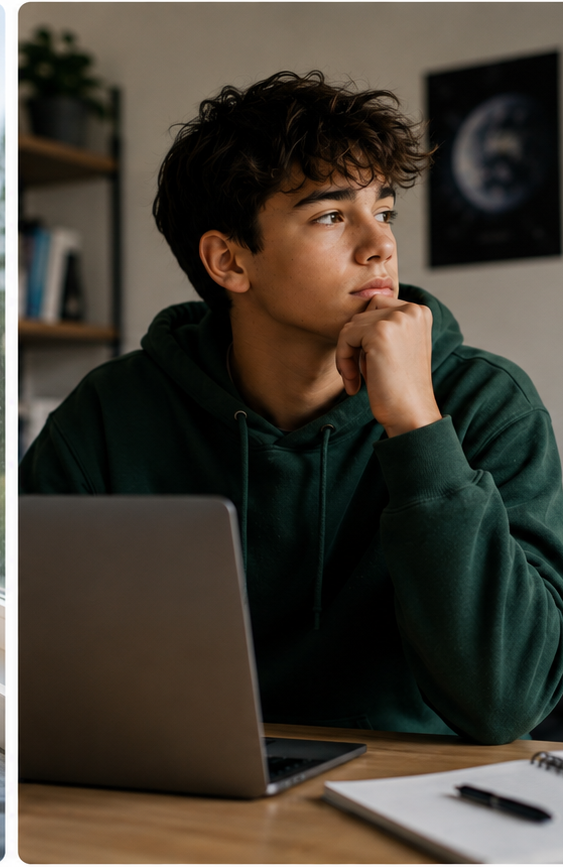
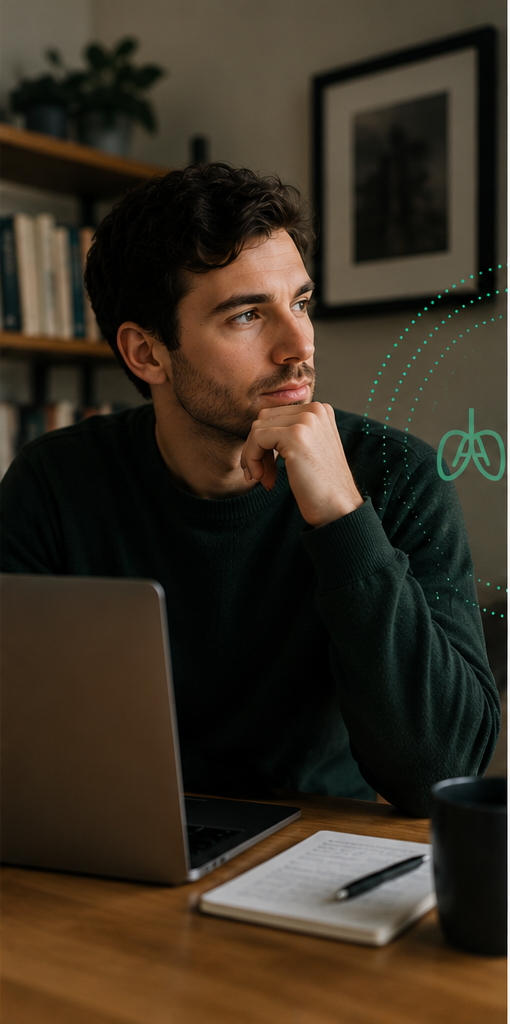
Swap in v4 adult hero images, drop border workarounds
New borderless v4 photos (adults, matching the 18+ audience) replace
hero-1/2/3; bump cache tag to v4 and remove the scale() zoom hacks that
were hiding white edges on the v3 images.

diff --git a/index.html b/index.html
@@ -228,7 +228,7 @@
       <p class="claim">Life forward</p>
     </div>
     <div class="photo">
-      <img src="assets/hero-1.png?v=3" alt="A person looking out a window at home" style="transform:scale(1.03)">
+      <img src="assets/hero-1.png?v=4" alt="A woman looking out a window at home">
     </div>
   </div>
 </section>
@@ -254,7 +254,7 @@
       <p class="body-c">Participants take the tablet twice a day for 52 weeks, alongside regular health checks, symptom assessments, and quality-of-life questionnaires. The study lasts about 14 months in total, with a minimum of around 16 site visits, and measures improvement using a Total Improvement Score at Week 52.</p>
     </div>
     <div class="photo light">
-      <img src="assets/hero-2.png?v=3" alt="A person sitting at a laptop at home" style="transform:scale(1.06)">
+      <img src="assets/hero-2.png?v=4" alt="A man sitting at a laptop at home">
     </div>
   </div>
 </section>
@@ -305,7 +305,7 @@
       </ul>
       <p class="foot-note">Additional protocol criteria apply. A study doctor will confirm full eligibility with you.</p>
     </div>
-    <div class="photo"><img src="assets/hero-3.png?v=3" alt="A person writing in a notebook at a desk at home" style="transform:scale(1.16)"></div>
+    <div class="photo"><img src="assets/hero-3.png?v=4" alt="A woman writing in a notebook at a desk at home"></div>
   </div>
 </section>
 
